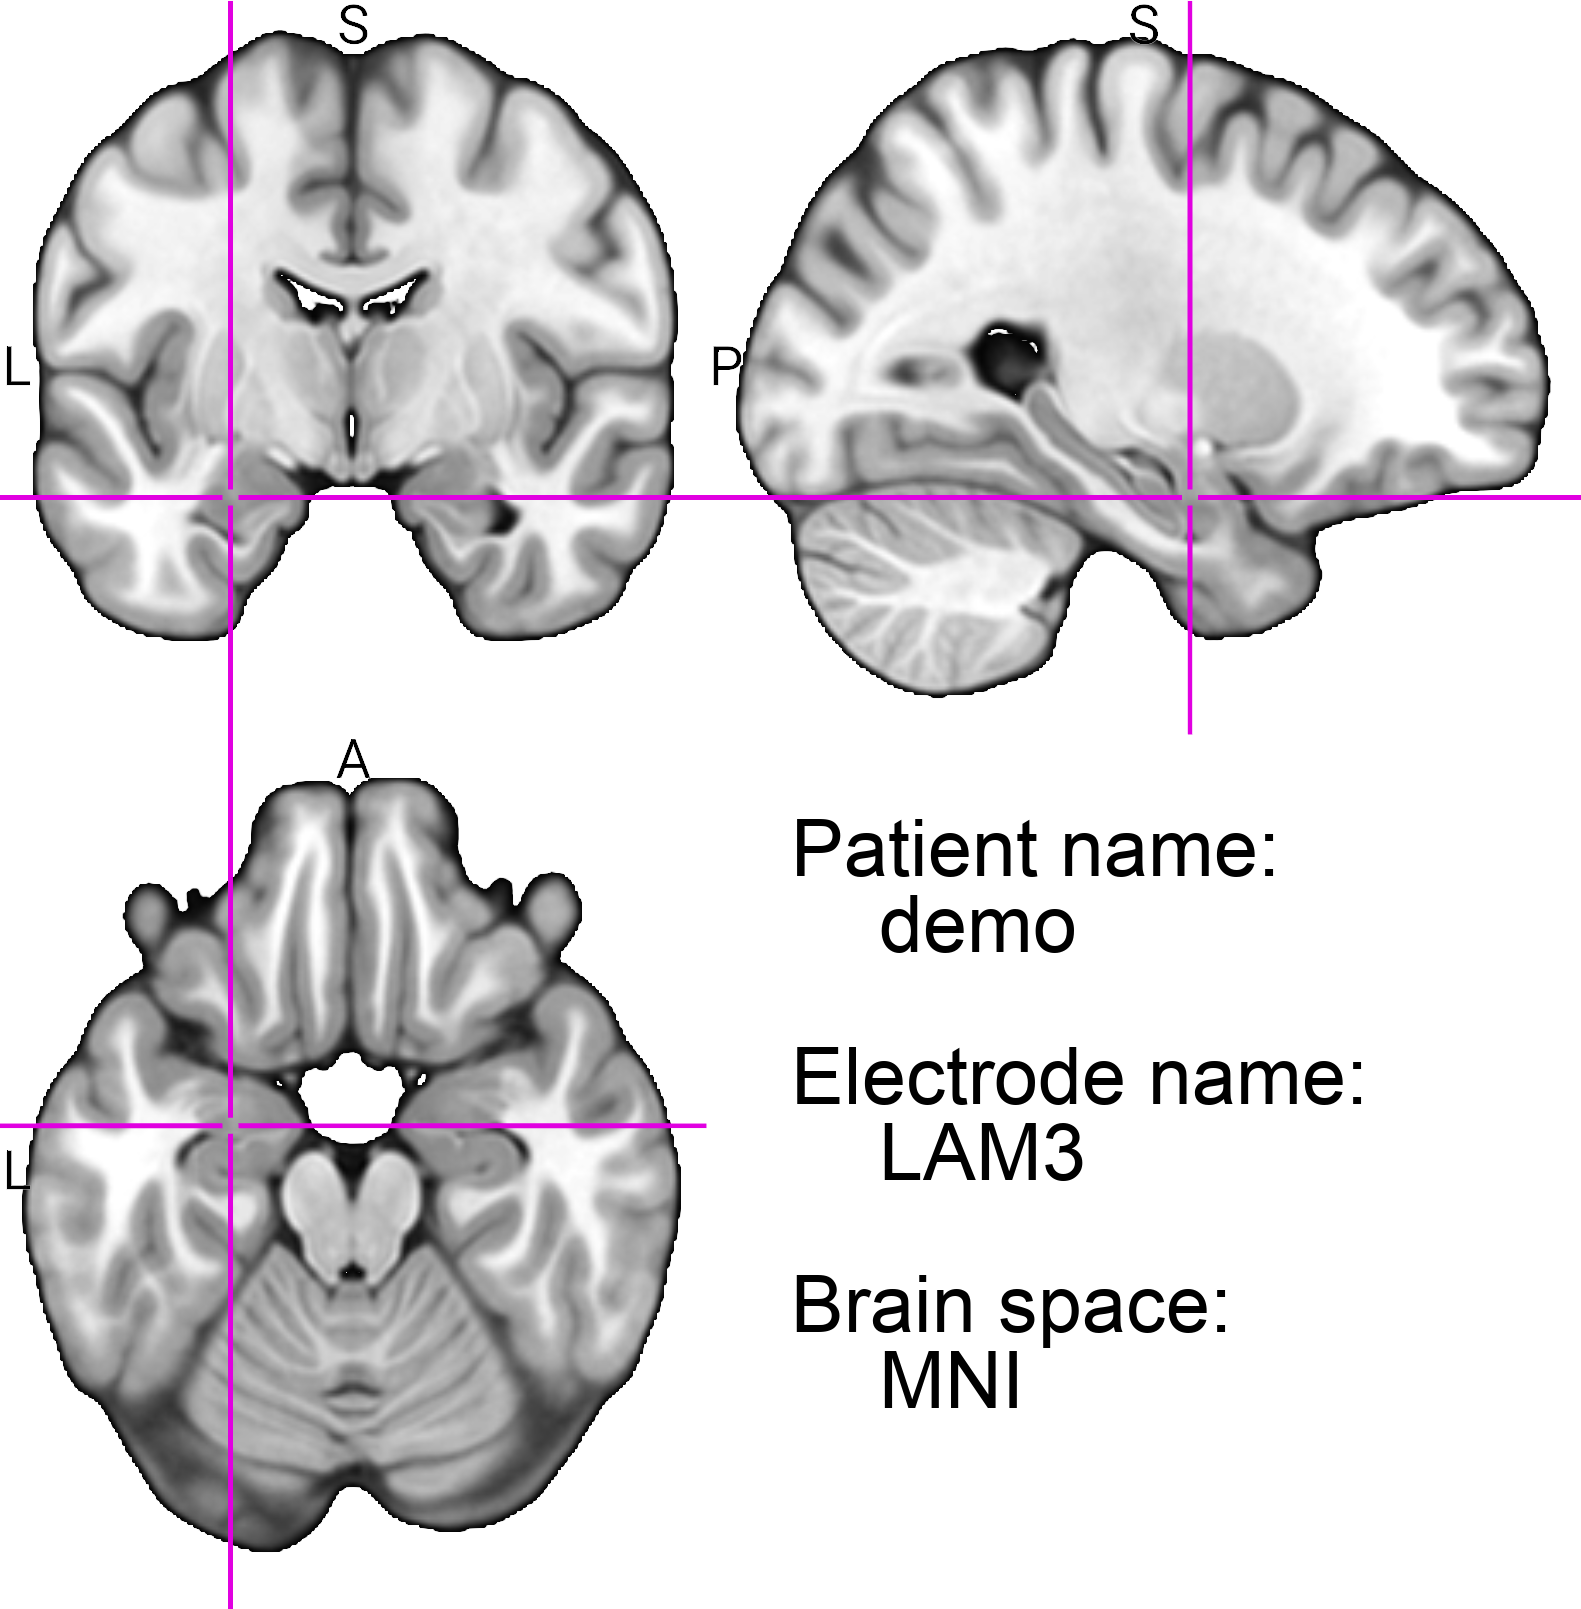
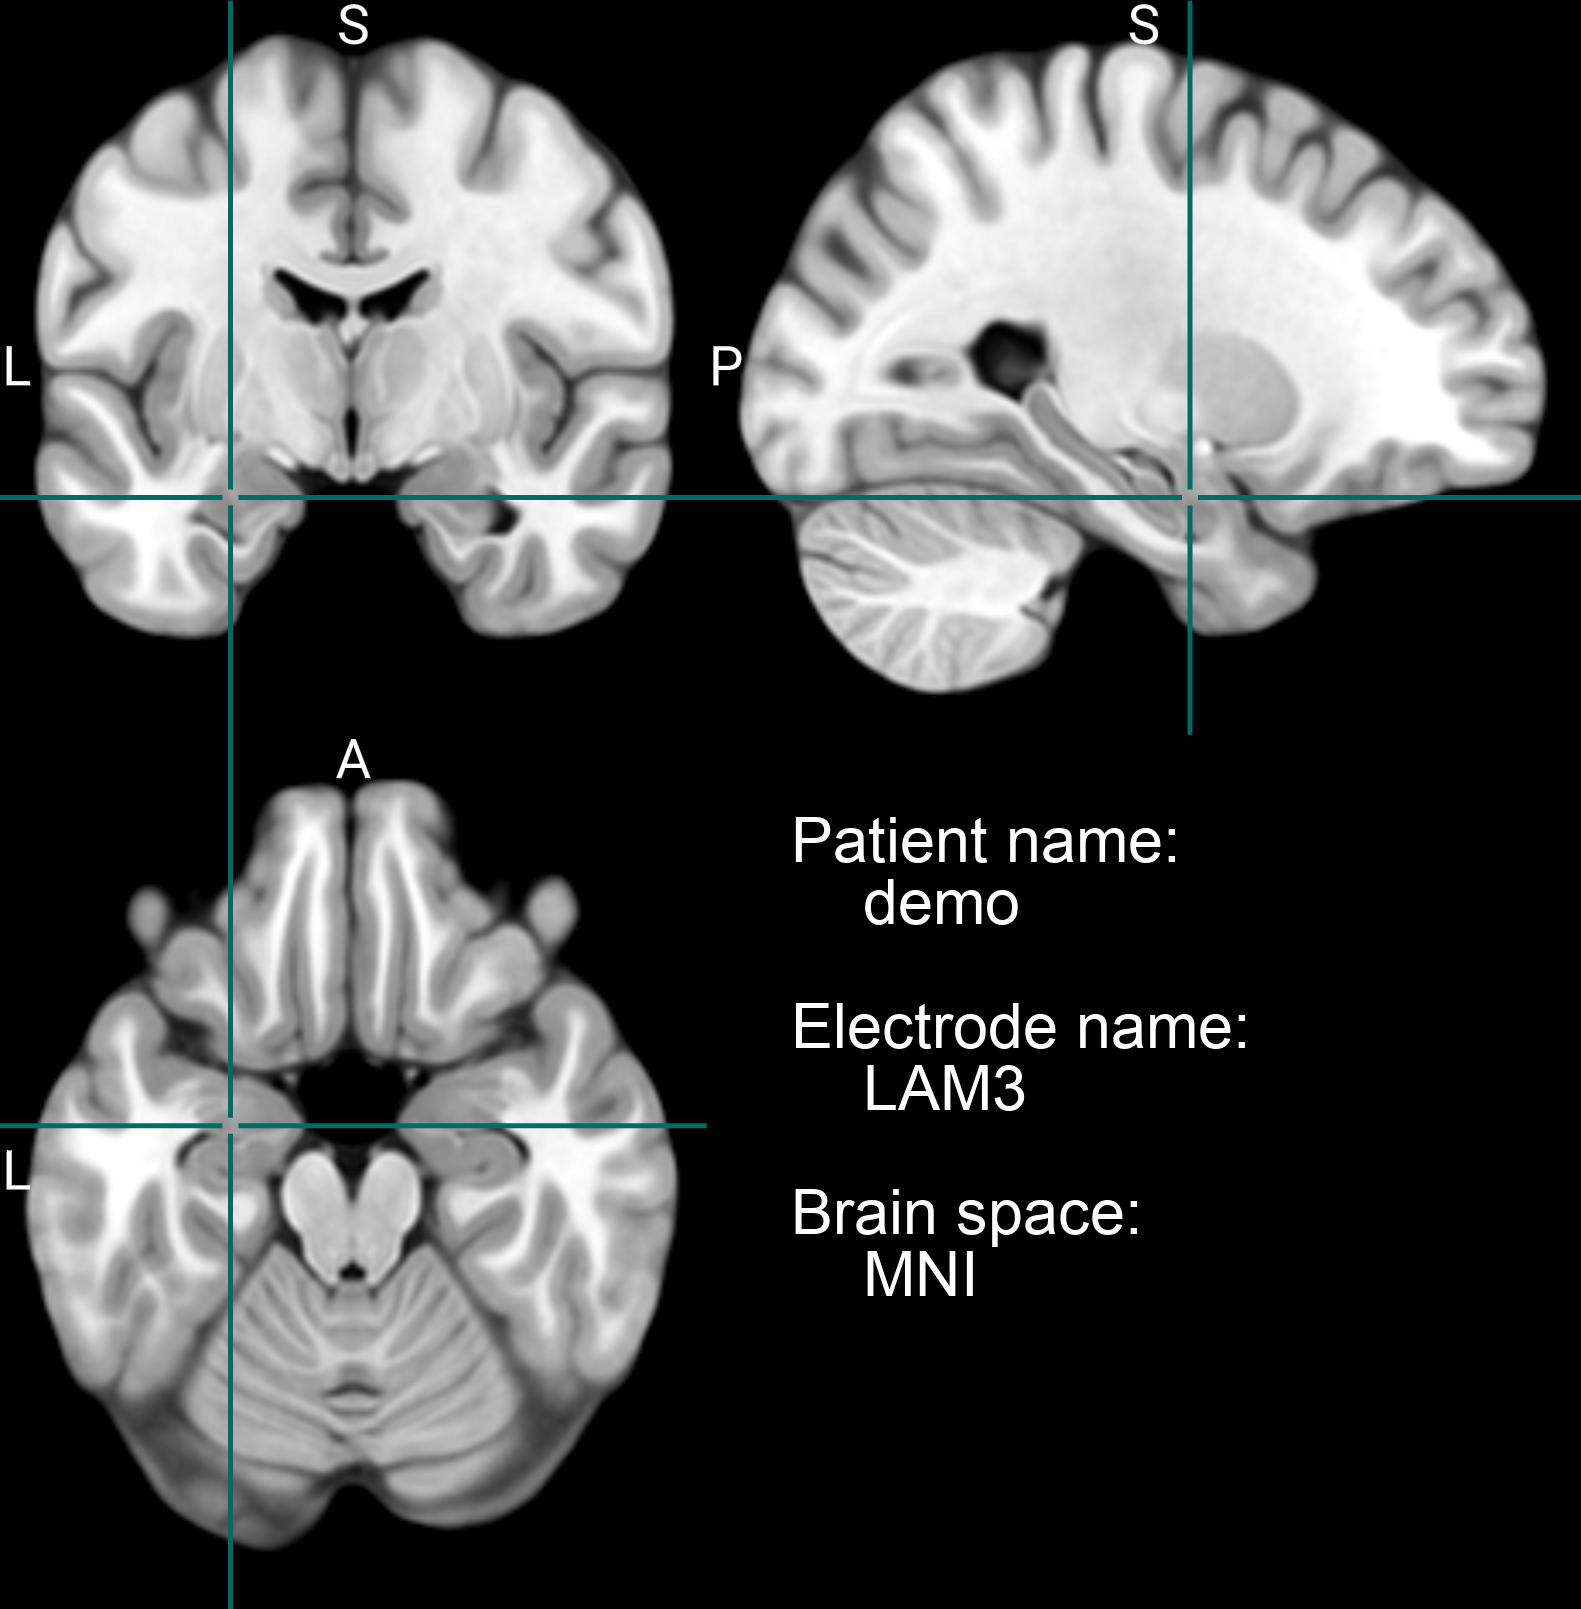
fixed transparent mask problem, updated readme

diff --git a/elec_vis_func.py b/elec_vis_func.py
@@ -1,4 +1,5 @@
 import os
+import numpy as np
 import tkinter as tk
 import tkinter.filedialog
 from PIL import Image, ImageFont, ImageDraw
@@ -65,20 +66,21 @@ def elec_vis_annotate(output_dir):
         img_name     = os.path.split(img_path)[1]
         patient_name = img_name.split('_')[0]
         elec_name    = img_name.split('_')[1]
-        space_name = img_name.split('_')[2]
-        space_name = os.path.splitext(space_name)[0]
+        space_name   = img_name.split('_')[2]
+        space_name   = os.path.splitext(space_name)[0]
 
         img          = Image.open(img_path)
         img_box      = img.getbbox()
         img          = img.crop(img_box)
-
-        new_img = Image.new("RGBA", img.size, "WHITE") # Create a white rgba background
-        new_img.paste(img, (0, 0), img)              # Paste the image on the background. Go to the links given below for details.
-        img = new_img
+        
+        if np.array(img).shape[2] == 4: # If image output is .png with transparent background
+            new_img = Image.new("RGBA", img.size, "BLACK") # Create a black rgba background
+            new_img.paste(img, (0, 0), img)                # Paste the image on the background.
+            img = new_img
         
         img_width    = img.size[0]
         img_height   = img.size[1]
-        font_size = min(img_width, img_height) / 20
+        font_size = min(img_width, img_height) / 25
 
         img_draw     = ImageDraw.Draw(img)
         font         = ImageFont.truetype('arial.ttf', int(font_size))
@@ -87,6 +89,8 @@ def elec_vis_annotate(output_dir):
         'Brain space:\n    ' + space_name])
 
         img_draw.multiline_text((img_width/2, img_height/2), 
-        text, 
-        font = font, fill = (0, 0, 0))
+        text,
+        font = font, 
+        fill = (255, 255, 255) # Font color = white (against black background)
+        )
         img.save(img_path)

diff --git a/elec_vis.py b/elec_vis.py
@@ -30,8 +30,15 @@ output_dir_MNI_AAL = os.path.join(output_dir, 'MNI_AAL')
 os.mkdir(output_dir_MNI_AAL)
 
 # Read electrode table
-tbl_data = pd.read_excel(path_tbl)
-tbl_data = tbl_data.reset_index()  # make sure indexes pair with number of rows
+tbl_name, tbl_extension = os.path.splitext(path_tbl)
+if tbl_extension == '.csv':
+    tbl_data = pd.read_csv(path_tbl)
+elif tbl_extension == '.xlsx':
+    tbl_data = pd.read_excel(path_tbl)
+
+tbl_data.dropna(axis = 0, how = 'all', inplace = True) # Drop empty rows
+tbl_data.dropna(axis = 1, how = 'all', inplace = True) # Drop empty columns
+tbl_data = tbl_data.reset_index()                      # Make sure indexes pair with number of rows
 
 # Convert table to a nested list
 tbl_list = []

diff --git a/MRIcroGL_script.py b/MRIcroGL_script.py
@@ -36,12 +36,12 @@ AAL_path = os.path.join(dir_MRIcroGL, 'Resources', 'atlas', 'aal.nii.gz')
 gl.resetdefaults()
 gl.windowposition(0, 0, window_width, window_height)
 
-gl.backcolor(255, 255, 255) # Background color: white
+gl.backcolor(0, 0, 0)       # Background color: black
 gl.colorbarposition(0)      # Disable color bar
 gl.toolformvisible(0)       # Hide tool panel
 gl.scriptformvisible(0)     # Hide script panel
 gl.bmpzoom(1)               # Save bitmaps at screen resolution
-gl.linecolor(225, 0, 225)   # Crosshair color (purple)
+gl.linecolor(0, 108, 102)   # Crosshair color (Greenish blue)
 gl.linewidth(5)             # Crosshair width
 
 # Visualization in native space

diff --git a/README.md b/README.md
@@ -20,7 +20,7 @@ GitHub release at https://github.com/rordenlab/MRIcroGL. Download links:
 # How to use
 - Install the [dependencies](#Dependencies)
 - In [config.json](config.json), enter your monitor's width and height (in pixel) and MRIcroGL directory. Knowledge of screen size allows MRIcroGL to choose a window size appropriate for visualization
-- Prepare an electrode table that has the following columns (output of reconstruction). A demo table can be found at [demo/demo.xlsx](demo/demo.xlsx).
+- Prepare an electrode table that has the following columns (output of reconstruction). A demo table can be found at [demo/demo.csv](demo/demo.csv). The table can be comma-separated (.csv) or an excel spreadsheet (xls, xlsx, xlsm, etc.)
   - `channel` (e.g. LAMu)
   - `native_x` (in mm, so below)
   - `native_y`
@@ -37,9 +37,9 @@ GitHub release at https://github.com/rordenlab/MRIcroGL. Download links:
   - Click OK once selection is complete (will yield error if file selection was not complete/successful) 
   - Lie down and watch MRIcroGL do the job!
   - Check the results in the directory of electrode table, in a new folder named `{patient_name} + elec_vis`. It has three subfolders:
-    - `native`: electrode locations in the patient's native brain space
-    - `MNI`: electrode locations in MNI space without overlay of atlas
-    - `MNI_AAL`: electrode locations in MNI space with AAL atlas overlaid
+    - `native`: electrode locations in the patient's native brain space ![example native](readme_screenshots/example_native.png)
+    - `MNI`: electrode locations in MNI space without overlay of atlas ![example MNI](readme_screenshots/example_MNI.png)
+    - `MNI_AAL`: electrode locations in MNI space with AAL atlas overlaid ![example MNI+AAL](readme_screenshots/example_MNI_AAL.png)
   
 # Disclaimer
 Visualization results are dependent on outputs of anatomical reconstruction (e.g., https://doi.org/10.1038/s41596-018-0009-6). For research purposes only.
